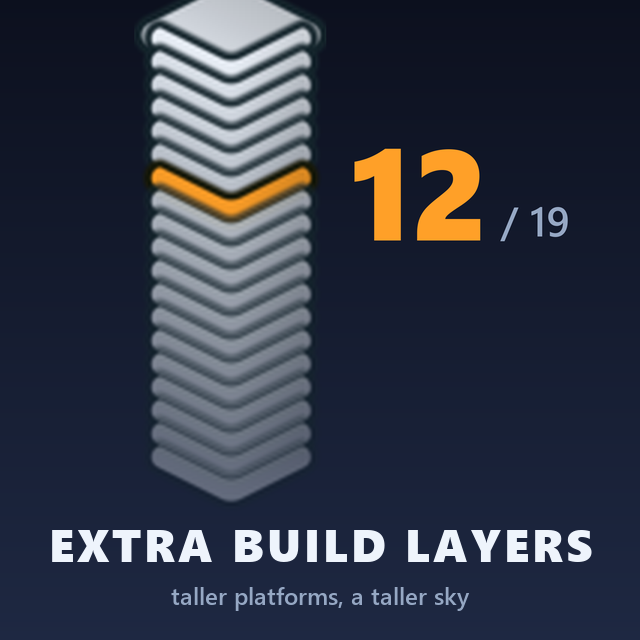
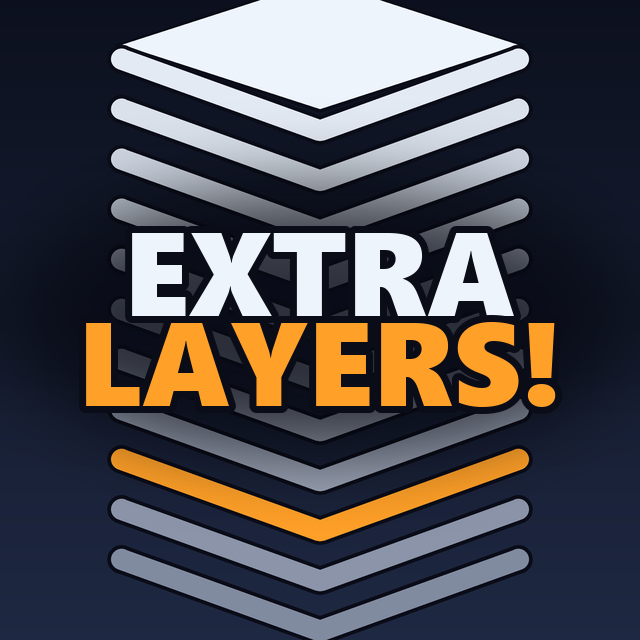
Extra Build Layers: grey hover on tall buildings, new Workshop preview
- The hover on buildings reaching floor 9 is drawn like a preview part, through
  the buildings renderer with its own colour block. Drawn through the hover's own
  call it had no colours, never showed, and filled the screen yellow when the
  camera zoomed into the mesh. The blueprint material adds its colour as light,
  so the tint is a mid grey to read as a pale sheen.
- Preview: the layer stack drawn as vectors, filling the frame, with the title
  across it. The HUD sprites are 64 px and blurred at preview size.

diff --git a/Shapez2-Extra-Build-Layers/ExtraBuildLayers/Steam/make-promo.py b/Shapez2-Extra-Build-Layers/ExtraBuildLayers/Steam/make-promo.py
@@ -7,12 +7,11 @@ Builds the Workshop preview image.
 Steam shows the grid thumbnail at well under 150 pixels, where a screenshot of a factory is grey
 mush. So this draws the one picture every player already reads as "layers": the game's own layer
 selector from the HUD, a diamond for the top layer over a chevron per layer below it, stretched
-far past the three it has in vanilla. One chevron is lit, as the selector lights the layer being
-viewed, with the number readout the mod puts beside it.
+far past the three it has in vanilla, filling the frame, with the title set big across it. One
+chevron is lit, as the selector lights the layer being viewed.
 
-The two sprites are read out of the game's resources.assets at run time rather than committed,
-so the repo carries no game art. That needs UnityPy (pip install UnityPy) and the game install,
-found from SPZ2_PATH (which points at the Managed folder) or the default Steam path.
+The shapes are drawn as vectors in the style of the HUD's sprites rather than taken from them: the
+sprites are 64 pixels wide and blur at preview size. Nothing is read from the game.
 
 Same conventions as the other mods' previews: 640 square, drawn at 4x and downsampled, Segoe UI
 from the Windows fonts folder with a fallback rather than a failure.
@@ -20,7 +19,7 @@ from the Windows fonts folder with a fallback rather than a failure.
 
 import os
 
-from PIL import Image, ImageDraw, ImageFont
+from PIL import Image, ImageDraw, ImageFilter, ImageFont
 
 HERE = os.path.dirname(os.path.abspath(__file__))
 
@@ -36,34 +35,14 @@ ACCENT = (255, 160, 40)      # the game's orange, as on its layer unlock icon
 BLACK_FONT = r"C:\Windows\Fonts\seguibl.ttf"   # Segoe UI Black
 SEMI_FONT = r"C:\Windows\Fonts\seguisb.ttf"    # Segoe UI Semibold
 
-LAYERS = 19              # chevrons below the diamond: 19 is the highest floor a platform can have
-SELECTED = 12            # which chevron is lit, counted from the bottom
-STACK_X = 0.36           # centre of the selector column
-STACK_TOP = 0.05
-STACK_BOTTOM = 0.74
-SPRITE_W = 0.30          # sprite width as a fraction of the image
+LAYERS = 11              # chevrons below the diamond - few enough that each one reads
+SELECTED = 2             # which chevron is lit, counted from the bottom
+STACK_X = 0.50           # centre of the selector column
+STACK_TOP = 0.07
+STACK_BOTTOM = 0.93
+SPRITE_W = 0.62          # sprite width as a fraction of the image
 
-
-def game_data():
-    path = os.environ.get("SPZ2_PATH", "")
-    if path.lower().rstrip(r"\/").endswith("managed"):
-        path = os.path.dirname(path.rstrip(r"\/"))
-    if not path:
-        path = r"C:\Program Files (x86)\Steam\steamapps\common\shapez 2\shapez 2_Data"
-    return path
-
-
-def load_sprites(*names):
-    import UnityPy
-    env = UnityPy.load(os.path.join(game_data(), "resources.assets"))
-    found = {}
-    for obj in env.objects:
-        if obj.type.name == "Sprite" and obj.peek_name() in names:
-            found[obj.peek_name()] = obj.read().image.convert("RGBA")
-    missing = set(names) - set(found)
-    if missing:
-        raise SystemExit("sprites not found in resources.assets: %s" % ", ".join(sorted(missing)))
-    return found
+TITLE_LINES = ("EXTRA", "LAYERS!")
 
 
 def font(path, size):
@@ -89,25 +68,24 @@ def lerp(a, b, t):
     return tuple(int(round(x + (y - x) * t)) for x, y in zip(a, b))
 
 
-def tinted(sprite, colour, alpha):
-    """The HUD sprites are white with a dark rim; multiplying keeps the rim and recolours the face."""
-    r, g, b, a = sprite.split()
-    out = Image.merge("RGBA", (
-        r.point(lambda v: v * colour[0] // 255),
-        g.point(lambda v: v * colour[1] // 255),
-        b.point(lambda v: v * colour[2] // 255),
-        a.point(lambda v: v * alpha // 255),
-    ))
-    return out
+def chevron(draw, cx, y, half_w, drop, thickness, colour, outline):
+    """The HUD's layer chevron, drawn as a vector: a thick rounded V with a dark rim."""
+    pts = [(cx - half_w, y - drop / 2), (cx, y + drop / 2), (cx + half_w, y - drop / 2)]
+    for width, fill in ((thickness + outline * 2, (10, 12, 24, 255)), (thickness, colour)):
+        draw.line(pts, fill=fill, width=int(width), joint="curve")
+        for px, py in (pts[0], pts[2]):
+            r = width / 2
+            draw.ellipse([px - r, py - r, px + r, py + r], fill=fill)
 
 
-def scaled(sprite, width):
-    height = round(sprite.height * width / sprite.width)
-    return sprite.resize((width, height), Image.LANCZOS)
+def diamond(draw, cx, y, half_w, half_h, colour, outline):
+    """The HUD's top-layer diamond, likewise."""
+    for grow, fill in ((outline, (10, 12, 24, 255)), (0, colour)):
+        draw.polygon([(cx, y - half_h - grow), (cx + half_w + grow * 2, y), (cx, y + half_h + grow),
+                      (cx - half_w - grow * 2, y)], fill=fill)
 
 
 def main():
-    sprites = load_sprites("TopLayer", "SubLayer")
     n = SIZE * SS
     image = Image.new("RGBA", (n, n))
     draw = ImageDraw.Draw(image, "RGBA")
@@ -115,52 +93,56 @@ def main():
     for y in range(n):
         draw.line([(0, y), (n, y)], fill=lerp(SPACE_TOP, SPACE_BOTTOM, y / n) + (255,))
 
-    width = int(SPRITE_W * n)
-    top = scaled(sprites["TopLayer"], width)
-    sub = scaled(sprites["SubLayer"], width)
+    # Drawn rather than taken from the HUD sprites: those are 64 pixels wide and go to mush at the
+    # size a preview needs. Same shapes - a diamond for the top layer, a chevron per layer below.
     cx = STACK_X * n
-
-    # Slots from the top: the diamond, then the chevrons down to layer 0.
+    half_w = SPRITE_W * n / 2
     slots = LAYERS + 1
     step = (STACK_BOTTOM - STACK_TOP) * n / (slots - 1)
-    lit_y = None
+    thickness = step * 0.42
+    outline = thickness * 0.18
+    drop = half_w * 0.36
+
     for slot in range(slots):
-        layer = LAYERS - slot          # the diamond is the top layer, LAYERS
+        layer = LAYERS - slot
         y = STACK_TOP * n + slot * step
-        sprite = top if slot == 0 else sub
         if layer == SELECTED:
-            colour, alpha = ACCENT, 255
-            lit_y = y
+            colour = ACCENT + (255,)
         else:
             # Fade towards the bottom, so the stack reads as rising rather than as a list.
-            colour, alpha = INK, int(255 * (0.35 + 0.65 * (layer / LAYERS)))
-        piece = tinted(sprite, colour, alpha)
-        image.alpha_composite(piece, (int(cx - piece.width / 2), int(y - piece.height / 2)))
+            colour = lerp((70, 82, 110), INK, 0.35 + 0.65 * (layer / LAYERS)) + (255,)
+        if slot == 0:
+            diamond(draw, cx, y, half_w, drop * 0.9, colour, outline)
+        else:
+            chevron(draw, cx, y, half_w, drop, thickness, colour, outline)
 
-    # The readout the mod shows beside the selector instead of a tower of handles.
-    big = font(BLACK_FONT, int(0.20 * n))
-    small = font(SEMI_FONT, int(0.065 * n))
-    number = "%d" % SELECTED
-    nx = cx + width * 0.62
-    bbox = draw.textbbox((0, 0), number, font=big)
-    draw.text((nx, lit_y - (bbox[1] + bbox[3]) / 2), number, font=big, fill=ACCENT + (255,))
-    nw = draw.textlength(number, font=big)
-    draw.text((nx + nw + 0.02 * n, lit_y - 0.005 * n), "/ %d" % LAYERS, font=small, fill=MUTED + (255,))
+    # A soft dark glow behind the title so it reads over the chevrons, without a hard band.
+    glow = Image.new("RGBA", (n, n), (0, 0, 0, 0))
+    ImageDraw.Draw(glow).ellipse([int(0.02 * n), int(0.30 * n), int(0.98 * n), int(0.70 * n)], fill=(6, 8, 18, 200))
+    glow = glow.filter(ImageFilter.GaussianBlur(radius=0.06 * n))
+    image.alpha_composite(glow)
 
-    out = image.convert("RGB").resize((SIZE, SIZE), Image.LANCZOS)
+    out = image.convert("RGB").resize((SIZE, SIZE), Image.LANCZOS).convert("RGBA")
     draw = ImageDraw.Draw(out)
 
-    title = font(BLACK_FONT, 46)
-    sub_face = font(SEMI_FONT, 24)
+    # Two lines, as wide as the frame allows, with a dark outline so the letters hold up at
+    # thumbnail size over the chevrons.
+    sizes = [118, 118]
+    faces = [font(BLACK_FONT, size) for size in sizes]
+    heights = []
+    for line, face in zip(TITLE_LINES, faces):
+        box = draw.textbbox((0, 0), line, font=face)
+        heights.append(box[3] - box[1])
+    gap = 6
+    y = (SIZE - (sum(heights) + gap)) / 2
+    for i, (line, face) in enumerate(zip(TITLE_LINES, faces)):
+        box = draw.textbbox((0, 0), line, font=face)
+        x = (SIZE - (box[2] - box[0])) / 2 - box[0]
+        fill = ACCENT if i == 1 else INK
+        draw.text((x, y - box[1]), line, font=face, fill=fill + (255,), stroke_width=7, stroke_fill=(10, 12, 24, 255))
+        y += heights[i] + gap
 
-    text = "EXTRA BUILD LAYERS"
-    tracking = 3
-    w = tracked_width(draw, text, title, tracking)
-    tracked(draw, ((SIZE - w) / 2, SIZE * 0.80), text, title, INK, tracking)
-
-    text = "taller platforms, a taller sky"
-    w = draw.textlength(text, font=sub_face)
-    draw.text(((SIZE - w) / 2, SIZE * 0.905), text, font=sub_face, fill=MUTED)
+    out = out.convert("RGB")
 
     path = os.path.join(HERE, "preview.png")
     out.save(path)

diff --git a/Shapez2-Extra-Build-Layers/ExtraBuildLayers/HighFloorBlueprints.cs b/Shapez2-Extra-Build-Layers/ExtraBuildLayers/HighFloorBlueprints.cs
@@ -57,6 +57,17 @@ internal sealed class HighFloorBlueprints : IDisposable
 
     private delegate void HoverDrawHook(HoverDraw orig, HUDBuildingMassSelection self, FrameDrawOptions options, BuildingModel building, float alpha);
 
+    /// <summary>
+    /// A soft grey, for the hover - the blueprint material adds this as light, so a value that looks
+    /// mid-grey on paper already reads as a pale sheen and 0.8 was glaring white. The game's own blueprint colours - will be placed, warning,
+    /// impossible - are the bright blue, yellow and red a selection or a placement shows; a hover
+    /// is meant to be a light sheen over the model, so it gets its own. Made on first use, on the
+    /// main thread (a MaterialPropertyBlock cannot be built off it).
+    /// </summary>
+    private static readonly Color HoverTint = new Color(0.32f, 0.33f, 0.35f, 1f);
+
+    private static IShaderColorProvider HoverColour;
+
     private readonly Hook Hook;
     private readonly Hook HoverHook;
     private readonly ILogger Logger;
@@ -133,9 +144,8 @@ internal sealed class HighFloorBlueprints : IDisposable
 
     /// <summary>
     /// The hover glow, for a building reaching the band, drawn with the island blueprint material
-    /// instead of <c>UXBuildingHoverIndicatorMaterial</c> - otherwise exactly vanilla's
-    /// <c>HUDBuildingMassSelection.Draw_HoverState</c>. It reads as the selection highlight rather
-    /// than the softer hover glow, which beats a glow that stops partway up the building.
+    /// instead of <c>UXBuildingHoverIndicatorMaterial</c>, the way a preview part is drawn, tinted a
+    /// soft white (<see cref="HoverTint"/>) so it reads as a hover rather than a selection.
     /// </summary>
     private void HoverDetour(HoverDraw orig, HUDBuildingMassSelection self, FrameDrawOptions options, BuildingModel building, float alpha)
     {
@@ -151,10 +161,17 @@ internal sealed class HighFloorBlueprints : IDisposable
                 if (material != null &&
                     building.Definition.CustomData.Get<IBuildingDrawData>().CombinedBlueprintMesh.TryGet(options.LOD.BuildingLOD, out IMeshReference handle))
                 {
+                    // Drawn exactly as SmartBuildingBlueprintRenderer.DrawBlueprintPart draws a
+                    // preview part with this material - the buildings renderer, with the
+                    // colour block a preview part gets - here a white one. The first version drew it through the hover's
+                    // own call (non-instanced, AnalogUI, an alpha block only): the material then had
+                    // no colours set, never showed from outside, and filled the screen yellow when
+                    // the camera zoomed into the mesh.
                     WorldCoordinate translation = building.Transform.Position.ToCenter_W();
-                    options.Renderers.RegularNonInstanced.DrawMesh(
+                    IShaderColorProvider colours = HoverColour ??= new FixedShaderColorProvider(HoverTint);
+                    options.Renderers.Buildings.AddWithProperties(
                         handle, material, FastMatrix.TranslateRotate(in translation, building.Rotation_G),
-                        RenderCategory.AnalogUI, MaterialPropertyHelpers.CreateAlphaBlock(alpha));
+                        colours.PropertyBlock, colours.PropertyBlockKey, options.LOD.Shadows, options.LOD.Shadows);
                     return;
                 }
             }
